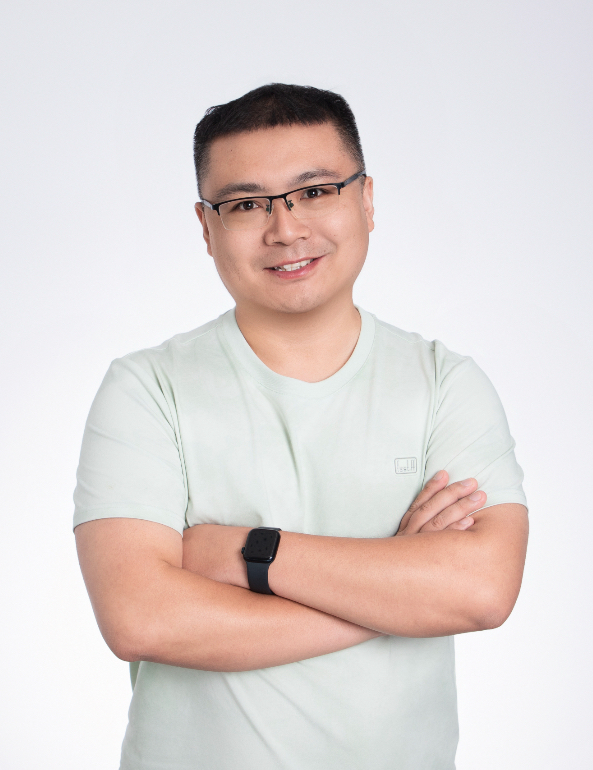
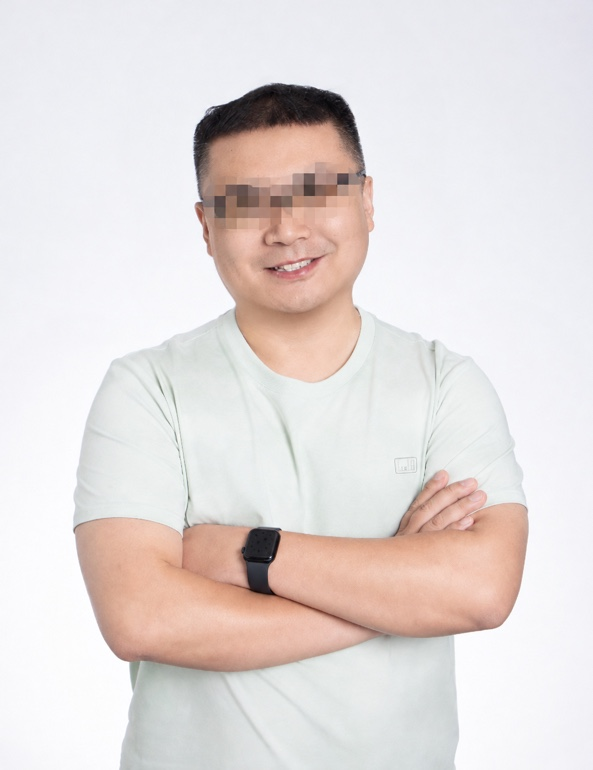
Pixelate glasses in README source photo

diff --git a/README.md b/README.md
@@ -10,11 +10,11 @@
 
 <table>
   <tr>
-    <th>原始照片</th>
+    <th>原始照片（眼镜区域已打码）</th>
     <th>黑墨金赭手绘肖像</th>
   </tr>
   <tr>
-    <td align="center"><img src="assets/examples/portrait-original.jpg" width="320" alt="原始人物照片：戴眼镜、微笑、抱臂"></td>
+    <td align="center"><img src="assets/examples/portrait-original.jpg" width="320" alt="眼镜和眼睛区域已打码的原始人物照片"></td>
     <td align="center"><img src="assets/examples/portrait-ink-gold.png" width="320" alt="保留人物身份与姿势的黑墨金赭手绘效果"></td>
   </tr>
 </table>
